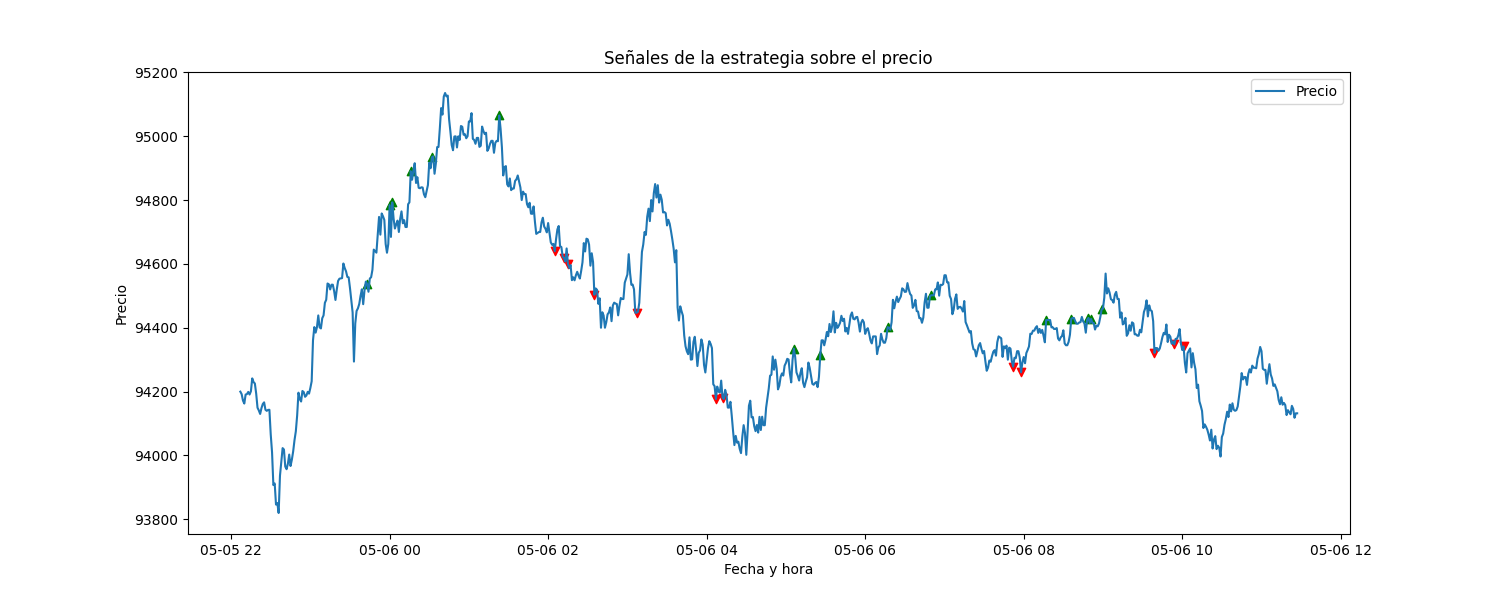
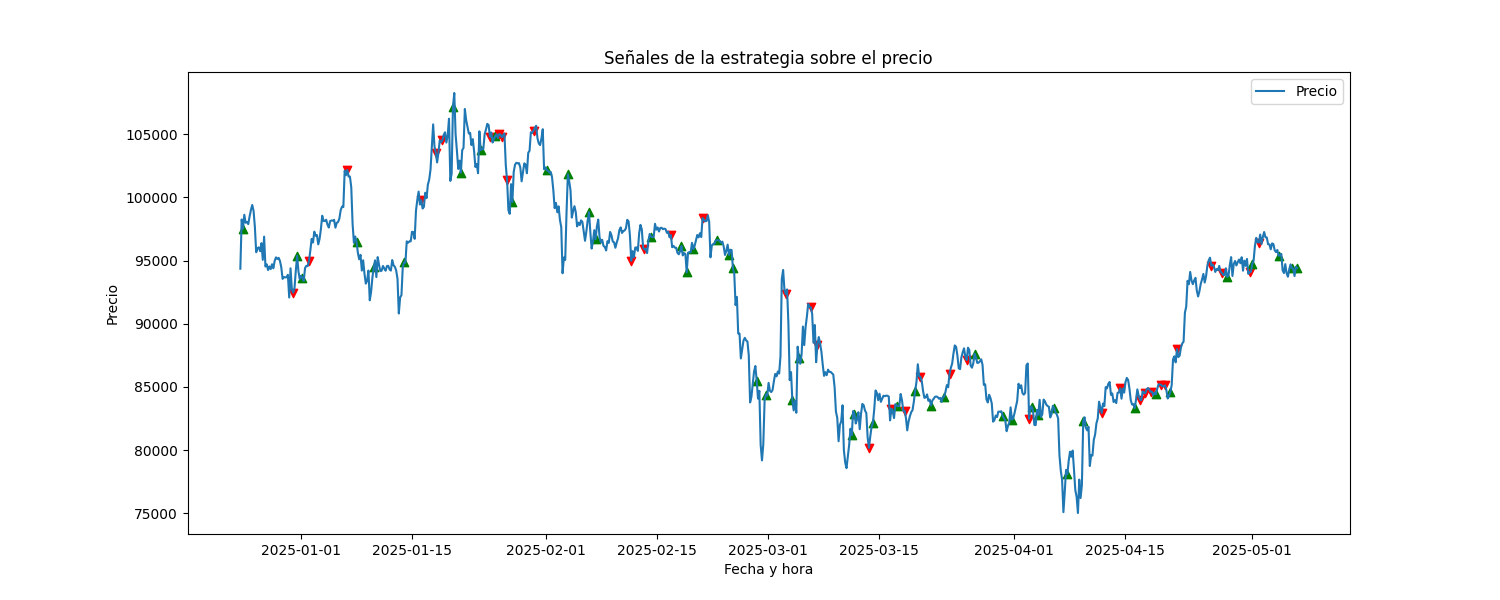
backtest para adx y squeeze

diff --git a/src/backtest.py b/src/backtest.py
@@ -5,10 +5,10 @@ import pandas as pd
 import matplotlib.pyplot as plt
 import datetime
 
-def backtest(symbol="BTCUSDT", interval="1", limit=2000):
+def backtest(symbol="BTCUSDT", interval="240", limit=1000):
     client = BybitClient()
     # Obtener también los timestamps
-    cierres, _, _, timestamps = client.get_candles(symbol, interval=interval, limit=limit, category="linear", return_timestamps=True)
+    cierres, altos, bajos, timestamps = client.get_candles(symbol, interval=interval, limit=limit, category="linear", return_timestamps=True)
     df = pd.DataFrame({
         "close": cierres,
         "timestamp": [datetime.datetime.fromtimestamp(ts/1000) for ts in timestamps]
@@ -21,34 +21,37 @@ def backtest(symbol="BTCUSDT", interval="1", limit=2000):
     rsi_list = calcular_rsi(df["close"].tolist(), periodo=14)
     macd_line, signal_line, _ = calcular_macd(df["close"].tolist())
 
-    paddings = [len(df) - len(ema10), len(df) - len(ema55), len(df) - len(ema200), len(df) - len(rsi_list), len(df) - len(macd_line), len(df) - len(signal_line)]
+    # Calcular squeeze_mom y adx para todo el dataset
+    # La función no acepta argumentos extra, solo cierres, altos, bajos
+    squeeze_mom, _ = calcular_squeeze_momentum(cierres, altos, bajos)
+    squeeze_mom = [s * 75 if s is not None else None for s in squeeze_mom]  # escala 75
+
+    adx = calcular_adx(cierres, altos, bajos, periodo=14)  # suavizado 14, longitud di 14
+    adx = [a * 2 if a is not None else None for a in adx]  # escala 2
+
     def pad(l):
         return [None] * (len(df) - len(l)) + l
 
-    df["ema10"]   = pad(ema10)
-    df["ema55"]   = pad(ema55)
-    df["ema200"]  = pad(ema200)
-    df["rsi"]     = pad(rsi_list)
-    df["macd"]    = pad(macd_line)
-    df["signal"]  = pad(signal_line)
+    df["ema10"] = pad(ema10)
+    df["ema55"] = pad(ema55)
+    df["ema200"] = pad(ema200)
+    df["rsi"] = pad(rsi_list)
+    df["macd"] = pad(macd_line)
+    df["signal"] = pad(signal_line)
+    df["squeeze_mom"] = pad(squeeze_mom)
+    df["adx"] = pad(adx)
 
     df.dropna(inplace=True)
     df.reset_index(drop=True, inplace=True)
 
     # Simulación de señales
     señales = []
-    for i in range(1, len(df)):
+    last_signal = None
+    for i in range(2, len(df)):
         precio = df.at[i, "close"]
-        squeeze_mom, squeeze_on = calcular_squeeze_momentum(cierres, altos, bajos)
-        adx = calcular_adx(cierres, altos, bajos, periodo=14)
-        # ...
-        senal = detectar_senal_trading(
-            precio_actual, ema_corta, ema_larga, ema_200v, rsi, macd, signal, prev_macd, prev_signal,
-            squeeze_mom[-1], squeeze_mom[-2], adx[-1], adx[-2]
-        )
         senal = detectar_senal_trading(
             precio,
-            df.at[i,   "ema10"],
+            df.at[i,   "ema10"],   # no se usan, pero se pasan por compatibilidad
             df.at[i,   "ema55"],
             df.at[i,   "ema200"],
             df.at[i,   "rsi"],
@@ -56,10 +59,11 @@ def backtest(symbol="BTCUSDT", interval="1", limit=2000):
             df.at[i,   "signal"],
             df.at[i-1, "macd"],
             df.at[i-1, "signal"],
-            df.at[i-2, "squeeze_mom"], # squeeze_mom anterior
-            df.at[i-1, "squeeze_mom"], # squeeze_mom actual
+            df.at[i-2, "squeeze_mom"], # squeeze anterior
+            df.at[i-1, "squeeze_mom"], # squeeze actual
             df.at[i-1, "adx"],         # adx actual
-            df.at[i-2, "adx"]          # adx anterior
+            df.at[i-2, "adx"],         # adx anterior
+            last_signal                # NUEVO: para evitar señales repetidas
         )
         if senal:
             señales.append({
@@ -68,6 +72,12 @@ def backtest(symbol="BTCUSDT", interval="1", limit=2000):
                 "close": precio,
                 "senal": senal
             })
+            last_signal = senal
+        # Solo resetea last_signal cuando el adx gira en sentido contrario
+        elif last_signal == "long" and df.at[i-1, "adx"] > df.at[i-2, "adx"]:
+            last_signal = None
+        elif last_signal == "short" and df.at[i-1, "adx"] < df.at[i-2, "adx"]:
+            last_signal = None
 
     # Guardar CSV con timestamp
     pd.DataFrame(señales).to_csv("resultados_backtest.csv", index=False)
@@ -75,7 +85,7 @@ def backtest(symbol="BTCUSDT", interval="1", limit=2000):
     print("Resultados guardados en: resultados_backtest.csv")
 
     # Visualización automática
-    plt.figure(figsize=(15,6))
+    """ plt.figure(figsize=(15,6))
     plt.plot(df["timestamp"], df["close"], label="Precio")
     for s in señales:
         color = "g" if s["senal"] == "long" else "r"
@@ -85,8 +95,37 @@ def backtest(symbol="BTCUSDT", interval="1", limit=2000):
     plt.xlabel("Fecha y hora")
     plt.ylabel("Precio")
     plt.savefig("grafico_backtest.png")  # Guarda el gráfico como imagen
-    print("Gráfico guardado en: grafico_backtest.png")
+    print("Gráfico guardado en: grafico_backtest.png") """
     #plt.show()
+
+    # Gráfico de ADX y Squeeze Momentum con valles y tres subplots separados
+    fig, axs = plt.subplots(3, 1, figsize=(15, 10), sharex=True)
+
+    # Precio arriba
+    axs[0].plot(df["timestamp"], df["close"], label="Precio")
+    axs[0].set_ylabel("Precio")
+    axs[0].legend()
+
+    # ADX en el medio
+    axs[1].plot(df["timestamp"], df["adx"], color="orange", label="ADX (x2)")
+    axs[1].axhline(23, color="red", linestyle="--", linewidth=1, label="Key level 23")
+    axs[1].set_ylabel("ADX")
+    axs[1].legend()
+
+    # Squeeze Momentum como valles abajo
+    x = df["timestamp"]
+    y = df["squeeze_mom"]
+    axs[2].axhline(0, color="gray", linestyle="--", linewidth=1)
+    axs[2].fill_between(x, 0, y, where=[v > 0 for v in y], color="green", alpha=0.5)
+    axs[2].fill_between(x, 0, y, where=[v < 0 for v in y], color="red", alpha=0.5)
+    axs[2].plot(x, y, color="purple", label="Squeeze Momentum", linewidth=1)
+    axs[2].set_ylabel("Squeeze")
+    axs[2].legend()
+    axs[2].set_xlabel("Fecha y hora")
+
+    plt.tight_layout()
+    plt.savefig("grafico_indicadores.png")
+    print("Gráfico de ADX y Squeeze guardado en: grafico_indicadores.png")
 
 if __name__ == "__main__":
     backtest()

diff --git a/src/stragegies/tradinglatino_strategy.py b/src/stragegies/tradinglatino_strategy.py
@@ -1,30 +1,18 @@
-def detectar_senal_trading(precio, ema_10, ema_55, ema_200, rsi, macd_line, signal_line, prev_macd_line, prev_signal_line, squeeze_mom, squeeze_actual, adx_actual, adx_anterior):
-    # Largo
-    # quitamos precio > ema_200 para temporalidad de 1h
-    # y 4h, ya que el precio puede estar por debajo de la ema200
-    if ema_10 > ema_55 and 50 < rsi < 70:
-        # Cruce MACD al alza
-        if prev_macd_line < prev_signal_line and macd_line > signal_line:
-            if squeeze_mom < 0 and squeeze_actual > 0 and adx_actual > adx_anterior:
-            # Mostrar valores de EMA y RSI
-                print(f"EMA 10: {ema_10}, EMA 55: {ema_55}, EMA 200: {ema_200}")
-                print(f"RSI: {rsi}, MACD: {macd_line}, Signal: {signal_line}")
-                print(f"Prev MACD: {prev_macd_line}, Prev Signal: {prev_signal_line}")
-                print(f"Precio: {precio}")
-                print(f"Señal de COMPRA detectada. Precio: {precio}")
-                return "long"
-    # Corto
-    # quitamos precio < ema_200 para temporalidad de 1h
-    # y 4h, ya que el precio puede estar por encima de la ema200
-    if ema_10 < ema_55 and 30 < rsi < 50:
-        # Cruce MACD a la baja
-        if prev_macd_line > prev_signal_line and macd_line < signal_line:
-            if squeeze_mom > 0 and squeeze_actual < 0 and adx_actual < adx_anterior:
-                # Mostrar valores de EMA y RSI
-                print(f"EMA 10: {ema_10}, EMA 55: {ema_55}, EMA 200: {ema_200}")
-                print(f"RSI: {rsi}, MACD: {macd_line}, Signal: {signal_line}")
-                print(f"Prev MACD: {prev_macd_line}, Prev Signal: {prev_signal_line}")
-                print(f"Precio: {precio}")
-                print(f"Señal de VENTA detectada. Precio: {precio}")
-                return "short"
+def detectar_senal_trading(
+    precio, ema_10, ema_55, ema_200, rsi, macd_line, signal_line,
+    prev_macd_line, prev_signal_line, squeeze_anterior, squeeze_actual, adx_actual, adx_anterior,
+    last_signal
+):
+    # LONG: ADX gira a la baja y Squeeze se gira al alza (solo una vez hasta el siguiente giro)
+    if (
+        adx_actual < adx_anterior and squeeze_anterior < 0 and squeeze_actual > squeeze_anterior
+        and abs(squeeze_actual) > 0.1 and last_signal != "long"
+    ):
+        return "long"
+    # SHORT: ADX gira al alza y Squeeze se gira a la baja (solo una vez hasta el siguiente giro)
+    if (
+        adx_actual > adx_anterior and squeeze_anterior > 0 and squeeze_actual < squeeze_anterior
+        and abs(squeeze_actual) > 0.1 and last_signal != "short"
+    ):
+        return "short"
     return None
